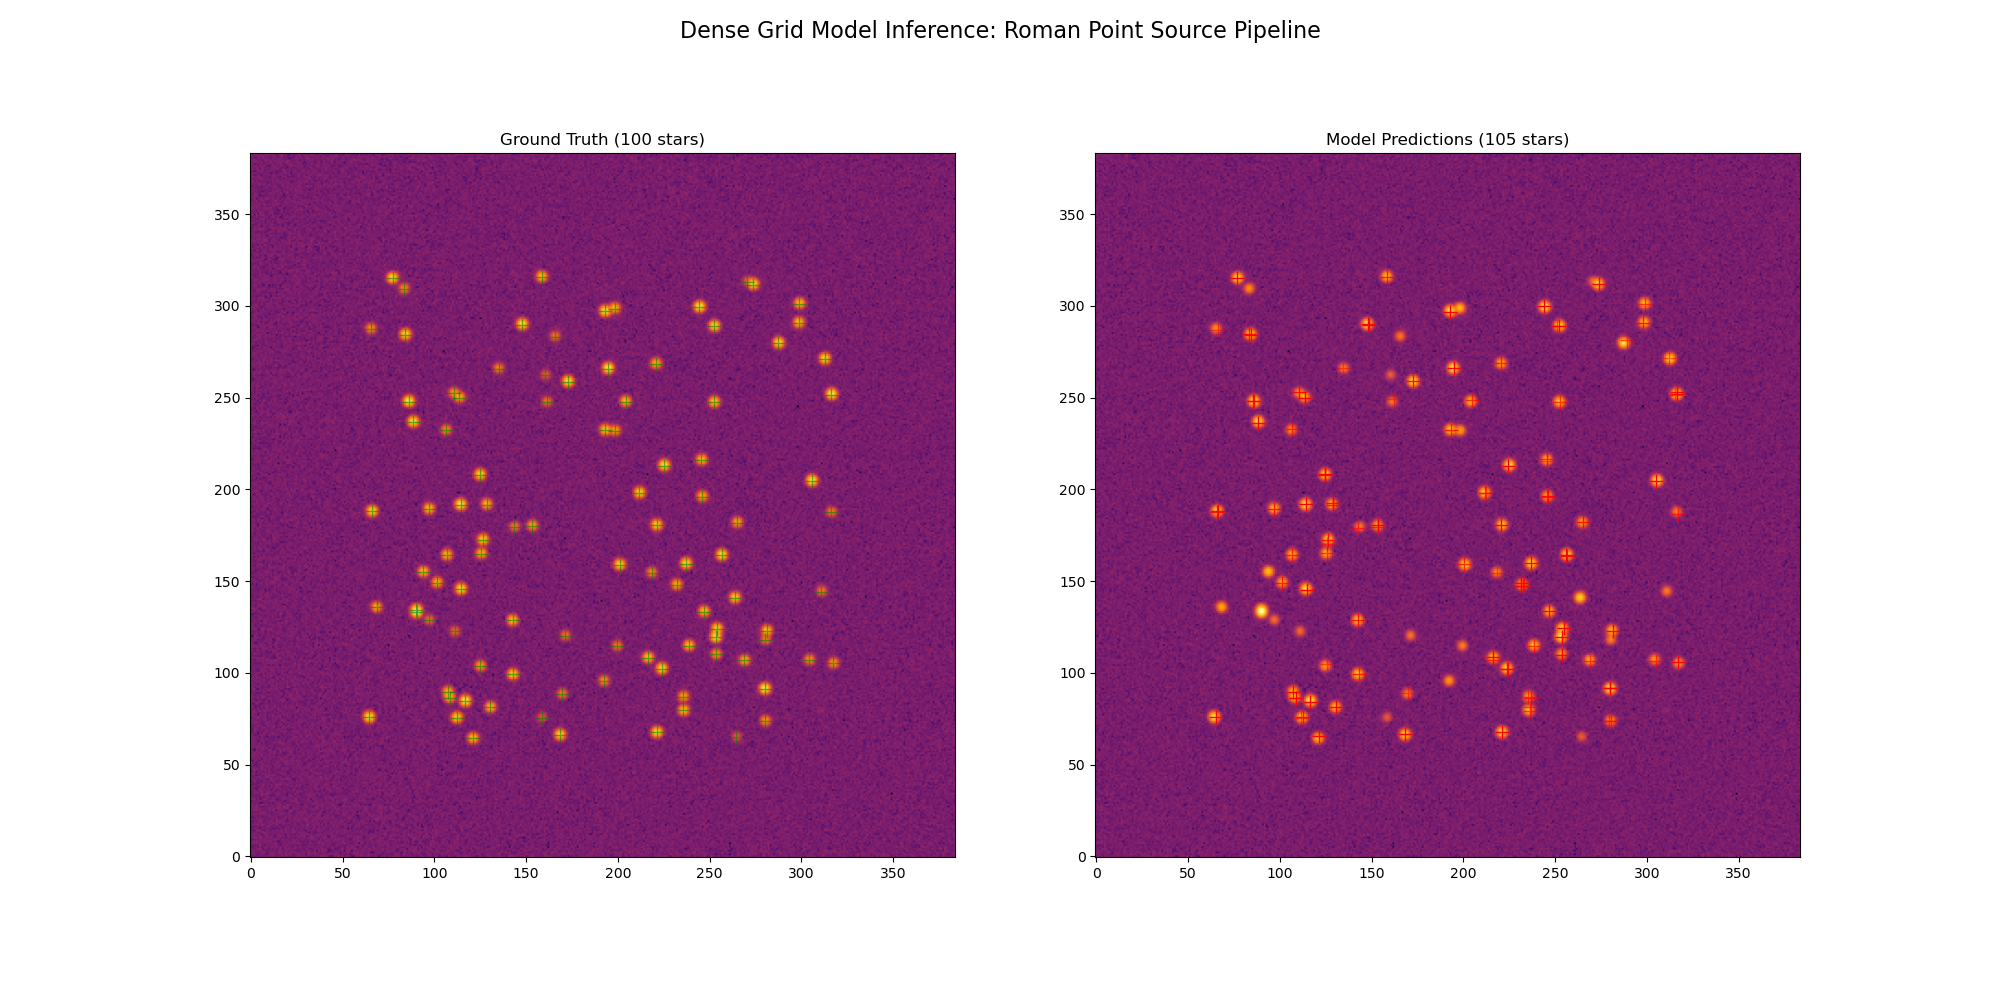
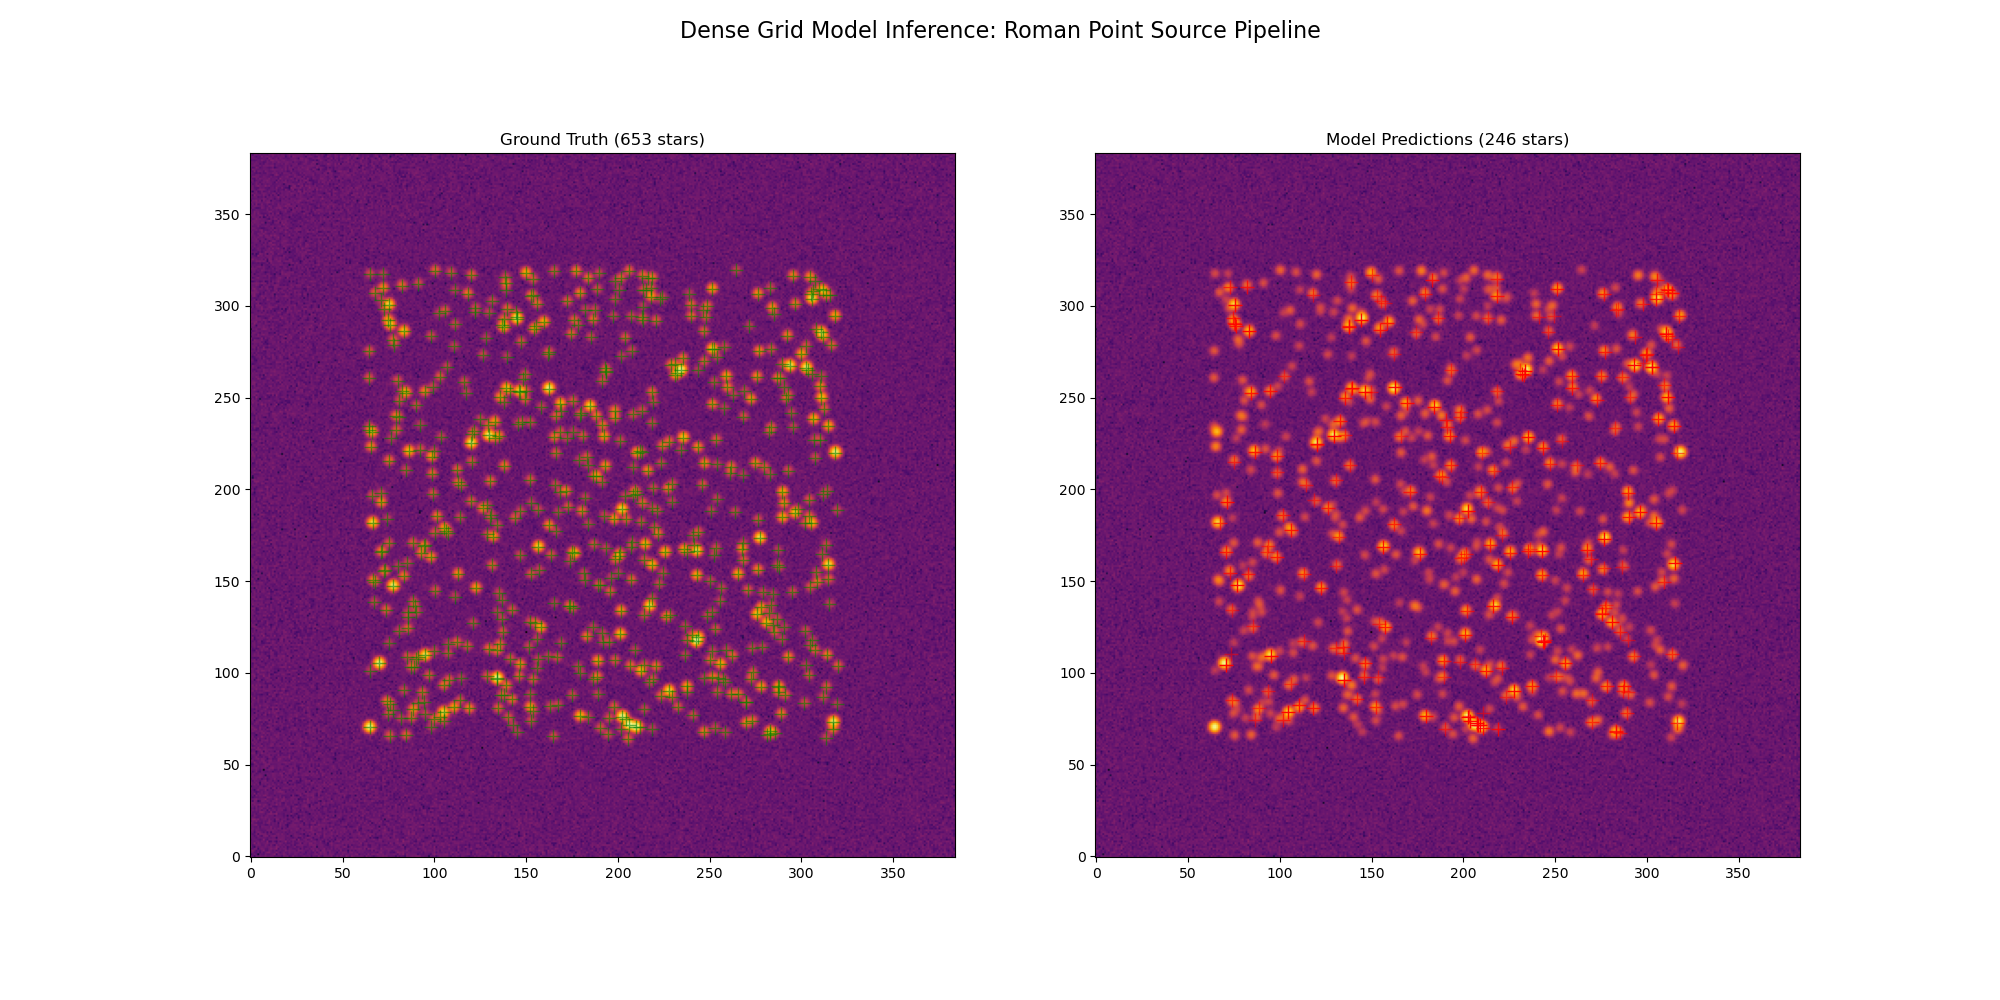
Update architecture design and model to support 128x128 output grid; enhance cloud deployment script for result retrieval and training automation.

Changed region(s): [[0.124, 0.124, 0.496, 0.868], [0.527, 0.124, 0.899, 0.868]]

diff --git a/models/dense_grid_model.py b/models/dense_grid_model.py
@@ -10,19 +10,19 @@ class DenseGridModel(nn.Module):
         self.num_output_channels = self.K * 5  # p, dx, dy, m, c
 
         # Backbone: Using a ResNet-34 as recommended in the design doc
-        # We need to modify the first layer to accept 1-channel grayscale images
+        # For 128x128 output from 384x384 input, we need downsampling factor of 3, 
+        # but ResNet uses powers of 2. We'll downsample by 2 and then crop.
+        # Input 384x384 -> Stride 2 -> 192x192. Central 128x128 from 192x192.
         resnet = models.resnet34(weights=None)
         self.backbone = nn.Sequential(
             nn.Conv2d(1, 64, kernel_size=7, stride=2, padding=3, bias=False),
             resnet.bn1,
             resnet.relu,
-            resnet.maxpool,
-            resnet.layer1, # Output stride 4: [B, 64, 96, 96] for 384x384 input
+            # resnet.maxpool, # Removing maxpool to keep resolution at stride 2 (192x192)
+            resnet.layer1, # Output stride 2: [B, 64, 192, 192] for 384x384 input
         )
         
         # Grid Prediction Head
-        # The design says we downsample by 4, then crop the central 64x64.
-        # layer1 in ResNet-34 provides a downsampling factor of 4.
         self.head = nn.Sequential(
             nn.Conv2d(64, 128, kernel_size=3, padding=1),
             nn.ReLU(inplace=True),
@@ -31,29 +31,27 @@ class DenseGridModel(nn.Module):
 
     def forward(self, x):
         # 1. Feature Extraction (Backbone)
-        # Input: [B, 1, 384, 384] -> Output: [B, 64, 96, 96]
+        # Input: [B, 1, 384, 384] -> Output: [B, 64, 192, 192]
         features = self.backbone(x)
         
-        # 2. Central Crop to 64x64
-        # (96 - 64) / 2 = 16 pixels of padding to remove on each side
-        features_cropped = features[:, :, 16:80, 16:80]
+        # 2. Central Crop to 128x128
+        # (192 - 128) / 2 = 32 pixels of padding to remove on each side
+        features_cropped = features[:, :, 32:160, 32:160]
         
         # 3. Grid Prediction
-        # Output: [B, K*5, 64, 64]
+        # Output: [B, K*5, 128, 128]
         out = self.head(features_cropped)
         
-        # 4. Reshape to [B, 64, 64, K, 5]
-        # Torch uses [B, C, H, W], we want to reorder to [B, H, W, K, 5]
+        # 4. Reshape to [B, 128, 128, K, 5]
         B, C, H, W = out.shape
         out = out.view(B, self.K, 5, H, W)
-        out = out.permute(0, 3, 4, 1, 2) # [B, 64, 64, K, 5]
+        out = out.permute(0, 3, 4, 1, 2) # [B, 128, 128, K, 5]
         
-        # 5. Apply Activations (As per Design Doc Step 3, Stage 2)
-        # Channels: p, dx, dy, m, c
+        # 5. Apply Activations
         p = torch.sigmoid(out[..., 0:1])
-        dx = torch.sigmoid(out[..., 1:2]) * 4.0
-        dy = torch.sigmoid(out[..., 2:3]) * 4.0
-        m = out[..., 3:4] # Linear for magnitude
+        dx = torch.sigmoid(out[..., 1:2]) * 2.0 # Cell size is 2.0
+        dy = torch.sigmoid(out[..., 2:3]) * 2.0 # Cell size is 2.0
+        m = out[..., 3:4]
         c = torch.sigmoid(out[..., 4:5])
         
         return torch.cat([p, dx, dy, m, c], dim=-1)
@@ -61,35 +59,24 @@ class DenseGridModel(nn.Module):
 def compute_loss(pred, target, lambda_prob=1.0, lambda_reg=1.0, alpha=0.25, gamma=2.0):
     """
     Implements Step 4.B: The Masked Loss with Focal Loss for Probability.
-    Focal Loss helps the model focus on hard-to-detect faint stars by 
-    down-weighting easy background cells.
-    
-    pred, target: [B, 64, 64, 5, 5]
+    pred, target: [B, 128, 128, 5, 5]
     """
     # Masks
-    obj_mask = target[..., 0] == 1.0  # Slots that actually contain a star
+    obj_mask = target[..., 0] == 1.0
     
     # 1. Focal Loss for Probability (p)
     p_pred = pred[..., 0]
     p_target = target[..., 0]
     
-    # Standard BCE per element (no reduction yet)
     bce_loss = F.binary_cross_entropy(p_pred, p_target, reduction='none')
-    
-    # p_t is p if target=1, and (1-p) if target=0
     p_t = p_pred * p_target + (1 - p_pred) * (1 - p_target)
-    
-    # Focal weight: (1 - p_t)^gamma
     focal_weight = (1 - p_t) ** gamma
-    
-    # Alpha balancing (optional, helps with class imbalance)
     alpha_t = alpha * p_target + (1 - alpha) * (1 - p_target)
     
     prob_loss = (alpha_t * focal_weight * bce_loss).mean()
     
-    # 2. Regression Loss (Masked MSE) - Only for slots with a star
+    # 2. Regression Loss (Masked MSE)
     if obj_mask.sum() > 0:
-        # dx, dy, m, c
         reg_pred = pred[..., 1:][obj_mask]
         reg_target = target[..., 1:][obj_mask]
         reg_loss = F.mse_loss(reg_pred, reg_target, reduction='mean')
@@ -107,8 +94,8 @@ if __name__ == "__main__":
     
     target = torch.zeros_like(output)
     # Put a fake star in one slot
-    target[0, 32, 32, 0, 0] = 1.0 
-    target[0, 32, 32, 0, 1:5] = torch.tensor([2.0, 2.0, 100.0, 0.8])
+    target[0, 64, 64, 0, 0] = 1.0 
+    target[0, 64, 64, 0, 1:5] = torch.tensor([1.0, 1.0, 100.0, 0.8])
     
     total, prob, reg = compute_loss(output, target)
     print(f"Loss Test - Total: {total.item():.4f}, Prob: {prob.item():.4f}, Reg: {reg.item():.4f}")

diff --git a/scripts/evaluate.py b/scripts/evaluate.py
@@ -7,20 +7,14 @@ from models.dense_grid_model import DenseGridModel
 def match_stars(true_stars, pred_stars, dist_threshold=2.0):
     """
     Matches true stars to predicted stars using the Hungarian algorithm.
-    true_stars: list of (x, y, flux, completeness)
-    pred_stars: list of (x, y, flux, completeness, prob)
     """
     if not true_stars or not pred_stars:
         return [], list(range(len(true_stars))), list(range(len(pred_stars)))
 
-    # Create cost matrix (Euclidean distance)
     true_coords = np.array([(s[0], s[1]) for s in true_stars])
     pred_coords = np.array([(s[0], s[1]) for s in pred_stars])
     
-    # [num_true, num_pred]
     dists = np.sqrt(((true_coords[:, np.newaxis, :] - pred_coords[np.newaxis, :, :])**2).sum(axis=2))
-    
-    # Hungarian matching
     true_idx, pred_idx = linear_sum_assignment(dists)
     
     matches = []
@@ -44,37 +38,30 @@ def evaluate(model_path="checkpoints/dense_grid_final.pth", num_chunks=500, thre
     model.load_state_dict(torch.load(model_path, map_location=device))
     model.eval()
 
-    dataset = GaussianStarDataset(max_stars_per_chunk=150)
+    dataset = GaussianStarDataset(min_stars=500, max_stars=1500)
 
-    all_tp = 0
-    all_fp = 0
-    all_fn = 0
-
-    pos_errors = []
-    flux_errors = []
-    comp_errors = []
+    all_tp, all_fp, all_fn = 0, 0, 0
+    pos_errors, flux_errors, comp_errors = [], [], []
 
     # Analysis vs Flux
     flux_bins = [0, 100, 200, 300, 400, 500]
     flux_tp = [0] * (len(flux_bins) - 1)
     flux_total = [0] * (len(flux_bins) - 1)
 
-    print(f"Evaluating model on {num_chunks} chunks...")
+    print(f"Evaluating model on {num_chunks} chunks (128x128 Grid)...")
 
-    
     for _ in range(num_chunks):
         image_tensor, _, true_catalogue = dataset.generate_chunk()
         
         with torch.no_grad():
             input_tensor = image_tensor.unsqueeze(0).to(device)
-            prediction = model(input_tensor).squeeze(0).cpu().numpy()
+            prediction = model(input_tensor).squeeze(0).cpu().numpy() # [128, 128, 5, 5]
             
         pred_stars = []
-        pad = dataset.pad
-        cell_size = dataset.cell_size
+        pad, cell_size, grid_size = dataset.pad, dataset.cell_size, dataset.grid_size
         
-        for y in range(64):
-            for x in range(64):
+        for y in range(grid_size):
+            for x in range(grid_size):
                 for k in range(5):
                     slot = prediction[y, x, k]
                     p, dx, dy, m, c = slot
@@ -101,43 +88,19 @@ def evaluate(model_path="checkpoints/dense_grid_final.pth", num_chunks=500, thre
 
         for t_idx, p_idx, dist in matches:
             pos_errors.append(dist)
-            
-            # Flux error: (pred - true) / true
             true_flux = true_catalogue[t_idx][2]
             pred_flux = pred_stars[p_idx][2]
-            flux_err = (pred_flux - true_flux) / true_flux
-            flux_errors.append(flux_err)
-            
-            # Completeness error (MAE)
-            true_comp = true_catalogue[t_idx][3]
-            pred_comp = pred_stars[p_idx][3]
-            comp_errors.append(abs(pred_comp - true_comp))
+            flux_errors.append((pred_flux - true_flux) / true_flux)
+            comp_errors.append(abs(pred_stars[p_idx][3] - true_catalogue[t_idx][3]))
             
     precision = all_tp / (all_tp + all_fp) if (all_tp + all_fp) > 0 else 0
     recall = all_tp / (all_tp + all_fn) if (all_tp + all_fn) > 0 else 0
     f1 = 2 * (precision * recall) / (precision + recall) if (precision + recall) > 0 else 0
     
-    avg_pos_rmse = np.sqrt(np.mean(np.array(pos_errors)**2)) if pos_errors else 0
-    avg_flux_mae = np.mean(np.abs(flux_errors)) if flux_errors else 0
-    avg_comp_mae = np.mean(comp_errors) if comp_errors else 0
-    
-    print("\n--- Evaluation Results ---")
-    print(f"Total True Stars: {all_tp + all_fn}")
-    print(f"Total Predicted:  {all_tp + all_fp}")
-    print(f"True Positives:   {all_tp}")
-    print(f"False Positives:  {all_fp}")
-    print(f"False Negatives:  {all_fn}")
-    print(f"Precision:        {precision:.4f}")
-    print(f"Recall:           {recall:.4f}")
-    print(f"F1-Score:         {f1:.4f}")
-    print(f"Positional RMSE:  {avg_pos_rmse:.4f} pixels")
-    print(f"Flux Relative MAE: {avg_flux_mae*100:.2f}%")
-    print(f"Completeness MAE: {avg_comp_mae:.4f} (0-1 scale)")
-    
-    print("\n--- Recall vs Flux ---")
-    for b in range(len(flux_bins)-1):
-        r = flux_tp[b] / flux_total[b] if flux_total[b] > 0 else 0
-        print(f"Flux {flux_bins[b]}-{flux_bins[b+1]}: {r:.4f} ({flux_tp[b]}/{flux_total[b]})")
+    print("\n--- Evaluation Results (128x128 Grid) ---")
+    print(f"Precision: {precision:.4f}, Recall: {recall:.4f}, F1: {f1:.4f}")
+    print(f"Positional RMSE: {np.sqrt(np.mean(np.array(pos_errors)**2)):.4f} pixels")
+    print(f"Flux Relative MAE: {np.mean(np.abs(flux_errors))*100:.2f}%")
 
 if __name__ == "__main__":
     evaluate()

diff --git a/scripts/inference.py b/scripts/inference.py
@@ -13,32 +13,32 @@ def run_inference(model_path="checkpoints/dense_grid_final.pth", threshold=0.5):
     model.eval()
     
     # 2. Generate Test Data
-    dataset = GaussianStarDataset(max_stars_per_chunk=150)
+    dataset = GaussianStarDataset(min_stars=500, max_stars=1500)
     image_tensor, target_tensor, true_catalogue = dataset.generate_chunk()
     
     # 3. Forward Pass
     with torch.no_grad():
         # Add batch dimension: [1, 1, 384, 384]
         input_tensor = image_tensor.unsqueeze(0).to(device)
-        prediction = model(input_tensor).squeeze(0).cpu().numpy() # [64, 64, 5, 5]
+        prediction = model(input_tensor).squeeze(0).cpu().numpy() # [128, 128, 5, 5]
     
-    # 4. Post-Processing: Coordinate Reassembly (Step 6 of Design)
+    # 4. Post-Processing: Coordinate Reassembly
     predicted_stars = []
     
     # Grid parameters from dataset
     pad = dataset.pad
     cell_size = dataset.cell_size
+    grid_size = dataset.grid_size
     
     # Iterate through the grid
-    for y in range(64):
-        for x in range(64):
+    for y in range(grid_size):
+        for x in range(grid_size):
             for k in range(5):
                 slot = prediction[y, x, k]
                 p, dx, dy, m, c = slot
                 
                 if p > threshold:
                     # Reconstruct global chunk coordinates
-                    # Cell (x, y) starts at: pad + (x * cell_size)
                     global_x = pad + (x * cell_size) + dx
                     global_y = pad + (y * cell_size) + dy
                     predicted_stars.append((global_x, global_y, m, c, p))
@@ -70,15 +70,9 @@ def run_inference(model_path="checkpoints/dense_grid_final.pth", threshold=0.5):
         # Size/Alpha based on confidence p
         ax2.plot(x, y, 'r+', markersize=10, alpha=min(1.0, p))
 
-    plt.suptitle("Dense Grid Model Inference: Roman Point Source Pipeline", fontsize=16)
+    plt.suptitle("Dense Grid Model Inference: Roman Point Source Pipeline (128x128 Grid)", fontsize=16)
     plt.savefig("inference_comparison.png")
     print("Comparison saved to inference_comparison.png")
-
-    # Optional: Print first few comparisons
-    print("\nSample Comparisons (First 5 Predictions):")
-    print("X\tY\tMag\tConf")
-    for s in predicted_stars[:5]:
-        print(f"{s[0]:.2f}\t{s[1]:.2f}\t{s[2]:.1f}\t{s[4]:.2f}")
 
 if __name__ == "__main__":
     run_inference()

diff --git a/scripts/generate_simple_synthetic_data.py b/scripts/generate_simple_synthetic_data.py
@@ -17,10 +17,10 @@ class GaussianStarDataset(Dataset):
         self.K = max_capacity_per_cell
         self.read_noise = 5.0
 
-        # Grid parameters
+        # Grid parameters: 2x2 cells for 256x256 core = 128x128 grid
         self.pad = (self.img_size - self.core_size) // 2  # 64 pixels
-        self.grid_size = self.core_size // 4              # 64x64 grid
-        self.cell_size = 4                                # 4x4 pixels per cell
+        self.cell_size = 2                                # 2x2 pixels per cell
+        self.grid_size = self.core_size // self.cell_size # 128x128 grid
 
     def __len__(self):
         return self.num_samples

diff --git a/design.md b/design.md
@@ -13,12 +13,12 @@ To develop a machine learning pipeline capable of performing fast, direct point-
 
 ### Output (The Spatial Grid)
 *   **Format:** 4D Tensor
-*   **Dimensions:** $64 \times 64 \times K \times 5$ (where $K=5$ is the max capacity of stars per cell).
-*   **Structure:** The output is a $64 \times 64$ spatial grid. Each cell is responsible for finding stars within a specific $4 \times 4$ pixel region of the core image. With $K=5$, the chunk has a maximum capacity of 20,480 stars.
+*   **Dimensions:** $128 \times 128 \times K \times 5$ (where $K=5$ is the max capacity of stars per cell).
+*   **Structure:** The output is a $128 \times 128$ spatial grid. Each cell is responsible for finding stars within a specific $2 \times 2$ pixel region of the core image. With $K=5$, the chunk has a maximum capacity of 81,920 stars.
 *   **Slot Values (5):**
     1.  **p:** Probability (Objectness score, $0.0 \to 1.0$)
-    2.  **dx:** Sub-pixel offset from the cell's top-left corner ($0.0 \to 4.0$)
-    3.  **dy:** Sub-pixel offset from the cell's top-left corner ($0.0 \to 4.0$)
+    2.  **dx:** Sub-pixel offset from the cell's top-left corner ($0.0 \to 2.0$)
+    3.  **dy:** Sub-pixel offset from the cell's top-left corner ($0.0 \to 2.0$)
     4.  **m:** Instrumental magnitude or normalized flux
     5.  **c:** Completeness / Recoverability Score ($0.0 \to 1.0$)
 
@@ -27,22 +27,22 @@ To develop a machine learning pipeline capable of performing fast, direct point-
 ### Stage 1: The Backbone (Feature Extractor)
 A Fully Convolutional Neural Network (CNN) processes the $384 \times 384$ input.
 *   **Recommendation:** A standard ResNet-34 or ConvNeXt backbone.
-*   **Output:** A feature map geometrically downsampled by a factor of 4. Because we only care about the central core, the feature map is centrally cropped to exactly $64 \times 64 \times C$ channels.
+*   **Output:** A feature map geometrically downsampled by a factor of 2 (instead of 4). Because we only care about the central core, the feature map is centrally cropped to exactly $128 \times 128 \times C$ channels.
 
 ### Stage 2: The Grid Prediction Head
-The $64 \times 64$ feature map is passed through $1 \times 1$ convolutional layers to map the channel depth directly to the required outputs.
-*   **Output Layer:** A $1 \times 1$ Conv layer outputting $K \times 5$ channels (e.g., 25 channels if $K=5$). The tensor is then reshaped to $64 \times 64 \times 5 \times 5$.
+The $128 \times 128$ feature map is passed through $1 \times 1$ convolutional layers to map the channel depth directly to the required outputs.
+*   **Output Layer:** A $1 \times 1$ Conv layer outputting $K \times 5$ channels (e.g., 25 channels if $K=5$). The tensor is then reshaped to $128 \times 128 \times 5 \times 5$.
 *   **Activations:**
     *   **p (Probability):** Sigmoid (0 to 1).
-    *   **dx, dy (Offsets):** Sigmoid multiplied by 4 (constrains predictions to the local cell).
+    *   **dx, dy (Offsets):** Sigmoid multiplied by 2 (constrains predictions to the local cell).
     *   **m (Magnitude):** Linear or ReLU.
     *   **c (Completeness):** Sigmoid (0 to 1).
 
 ## 4. The Loss Function (Grid Assignment)
 
 ### Step A: Ground Truth Grid Assignment
-1.  Create a target tensor of zeros: $64 \times 64 \times 5 \times 5$.
-2.  For each real star in the $256 \times 256$ core, calculate which $4 \times 4$ grid cell it falls into.
+1.  Create a target tensor of zeros: $128 \times 128 \times 5 \times 5$.
+2.  For each real star in the $256 \times 256$ core, calculate which $2 \times 2$ grid cell it falls into.
 3.  Calculate its local dx, dy offset within that cell.
 4.  Assign this star to the first available $K$-slot in that specific grid cell in the target tensor.
 
@@ -63,6 +63,15 @@ The $64 \times 64$ feature map is passed through $1 \times 1$ convolutional laye
     3.  Map the calculated SNR to a $0.0 \to 1.0$ completeness target score (e.g., clipping at $\text{SNR} < 3 = 0.0$ and saturating at $\text{SNR} > 10 = 1.0$).
     4.  Place this value into the 5th column (c) of the target tensor.
 *   **Strict Augmentation Rules:** Adding synthetic noise and sub-pixel shifting is allowed. No rotations or flips, as this violates the fixed orientation of Roman's diffraction spikes.
+
+## 6. Current Implementation: Cloud Lifecycle
+The current pipeline is optimized for high-throughput training on GCP (L4 GPU) using:
+*   **Pregenerated Datasets:** To eliminate the CPU bottleneck of on-the-fly synthetic data generation, use `scripts/pregenerate_data.py`. This pre-calculates the Gaussian training and validation sets (5,000 and 500 samples respectively) and saves them as `.pt` files.
+*   **Cloud Lifecycle Management:** `scripts/deploy_cloud.sh` manages the full VM lifecycle:
+    1.  **Sync & Setup:** Pulls latest code and installs dependencies.
+    2.  **Auto-Pregen:** Automatically detects if the data directory is empty and runs pre-generation.
+    3.  **Auto-Shutdown:** Launches training and triggers `sudo poweroff` upon completion.
+    4.  **Result Retrieval:** Use `./scripts/deploy_cloud.sh get-results` to automatically start the VM, download models/logs, and shut down.
 
 ## 7. Scaling to Realistic Data (Romanisim Integration)
 
